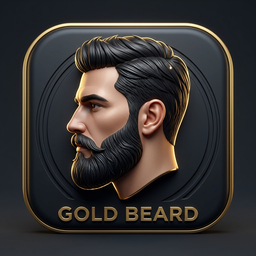
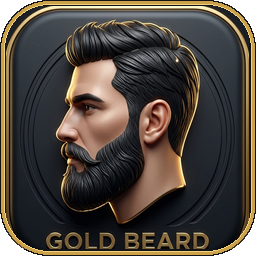
style: padronizacao milimetrica e perfeita de todos os icones e cards de servico

diff --git a/app/(app)/(tabs)/servicos/index.tsx b/app/(app)/(tabs)/servicos/index.tsx
@@ -100,12 +100,12 @@ export default function TelaServicos() {
         onPress={() => handleSelecionarServico(item)}
         activeOpacity={0.75}
       >
-        {/* Ilustração Exclusiva do Serviço */}
+        {/* Ilustração Exclusiva e Padronizada do Serviço */}
         <IlustracaoServico
           id={item.id}
           nome={item.nome}
           categoria={item.categoria}
-          tamanho={56}
+          tamanho={58}
         />
 
         {/* Detalhes do Serviço */}
@@ -114,13 +114,13 @@ export default function TelaServicos() {
             <Text style={styles.nomeServico}>{item.nome}</Text>
             {ehCombo && (
               <View style={styles.badgeVip}>
-                <Sparkles size={10} color={Colors.ouro} />
+                <Sparkles size={9} color={Colors.ouro} />
                 <Text style={styles.badgeVipTexto}>VIP</Text>
               </View>
             )}
           </View>
 
-          {/* Tags de Itens Inclusos no Combo (Ideia 1) */}
+          {/* Tags de Itens Inclusos no Combo ou Descrição */}
           {itensCombo ? (
             <View style={styles.comboTagsContainer}>
               {itensCombo.map((tag, idx) => (
@@ -130,7 +130,7 @@ export default function TelaServicos() {
               ))}
             </View>
           ) : item.descricao ? (
-            <Text style={styles.descricaoServico}>
+            <Text style={styles.descricaoServico} numberOfLines={2}>
               {item.descricao}
             </Text>
           ) : null}
@@ -140,7 +140,7 @@ export default function TelaServicos() {
         <View style={styles.ladoDireito}>
           <Text style={styles.precoServico}>{precoFormatado}</Text>
           <View style={styles.circuloSeta}>
-            <ChevronRight size={16} color={Colors.textoPrimario} />
+            <ChevronRight size={15} color={Colors.textoPrimario} />
           </View>
         </View>
       </TouchableOpacity>
@@ -366,20 +366,23 @@ const styles = StyleSheet.create({
   cardServico: {
     flexDirection: 'row',
     alignItems: 'center',
-    backgroundColor: Colors.superficie,
-    borderRadius: Radii.lg,
-    padding: Spacing.md,
-    gap: Spacing.md,
+    backgroundColor: '#151518',
+    borderRadius: 16,
+    paddingVertical: 12,
+    paddingHorizontal: 14,
+    gap: 12,
     borderWidth: 1,
-    borderColor: Colors.borda,
+    borderColor: '#242428',
+    minHeight: 84,
     ...Shadows.card,
   },
   cardCombo: {
     borderColor: 'rgba(203, 161, 74, 0.35)',
-    backgroundColor: '#1C1614',
+    backgroundColor: '#181412',
   },
   infoServico: {
     flex: 1,
+    justifyContent: 'center',
     gap: 3,
   },
   linhaNome: {
@@ -390,8 +393,8 @@ const styles = StyleSheet.create({
   },
   nomeServico: {
     fontFamily: FontFamily.bold,
-    fontSize: FontSize.bodyLg,
-    color: Colors.textoPrimario,
+    fontSize: 15,
+    color: '#FFFFFF',
   },
   badgeVip: {
     flexDirection: 'row',
@@ -412,27 +415,27 @@ const styles = StyleSheet.create({
   },
   descricaoServico: {
     fontFamily: FontFamily.regular,
-    fontSize: FontSize.bodySm,
-    color: Colors.textoSecundario,
-    lineHeight: 18,
+    fontSize: 12,
+    color: '#8E8E93',
+    lineHeight: 16,
   },
   comboTagsContainer: {
     flexDirection: 'row',
     flexWrap: 'wrap',
     gap: 4,
-    marginVertical: 2,
+    marginTop: 2,
   },
   comboTagPill: {
     backgroundColor: 'rgba(203, 161, 74, 0.12)',
     paddingHorizontal: 7,
-    paddingVertical: 3,
+    paddingVertical: 2.5,
     borderRadius: Radii.sm,
     borderWidth: 1,
-    borderColor: 'rgba(203, 161, 74, 0.25)',
+    borderColor: 'rgba(203, 161, 74, 0.28)',
   },
   comboTagTexto: {
     fontFamily: FontFamily.medium,
-    fontSize: 11,
+    fontSize: 10.5,
     color: Colors.ouroClaro,
   },
   detalhesLinha: {
@@ -441,35 +444,22 @@ const styles = StyleSheet.create({
     gap: Spacing.xs,
     marginTop: 2,
   },
-  tempoPill: {
-    flexDirection: 'row',
-    alignItems: 'center',
-    gap: 4,
-    backgroundColor: Colors.superficie2,
-    paddingHorizontal: 8,
-    paddingVertical: 3,
-    borderRadius: Radii.sm,
-  },
-  duracaoServico: {
-    fontFamily: FontFamily.medium,
-    fontSize: FontSize.labelXs,
-    color: Colors.textoSecundario,
-  },
   ladoDireito: {
     alignItems: 'flex-end',
     justifyContent: 'center',
     gap: 6,
+    minWidth: 70,
   },
   precoServico: {
     fontFamily: FontFamily.bold,
-    fontSize: FontSize.headingSm,
+    fontSize: 15,
     color: Colors.ouro,
   },
   circuloSeta: {
-    width: 28,
-    height: 28,
-    borderRadius: 14,
-    backgroundColor: Colors.superficie2,
+    width: 24,
+    height: 24,
+    borderRadius: 12,
+    backgroundColor: '#202024',
     alignItems: 'center',
     justifyContent: 'center',
   },

diff --git a/components/IlustracaoServico.tsx b/components/IlustracaoServico.tsx
@@ -78,7 +78,7 @@ const styles = StyleSheet.create({
     alignItems: 'center',
     justifyContent: 'center',
     overflow: 'hidden',
-    backgroundColor: '#0F0F12',
+    backgroundColor: 'transparent',
   },
   imagem: {
     width: '100%',

diff --git a/PROGRESS.md b/PROGRESS.md
@@ -97,19 +97,12 @@ Este arquivo serve como um "ponto de salvamento" (save state) para qualquer IA q
   - Refinamento da RPC `confirmar_presenca` para compatibilidade ampla com `status in ('pendente', 'agendado')`.
   - Adicionada política de atualização RLS para agendamentos do cliente.
 - **`eas.json`** criado com perfis de `development`, `preview` e `production`.
-### ✅ Fase 15 — Ícones 3D Render Profissionais e Exclusivos para Todos os Serviços (CONCLUÍDA)
-- **Geração de Artes 3D de Luxo (Assets Oficiais)**:
-  - 🪒 **Corte Navalhado** ([`assets/servicos/corte-navalhado.png`](./assets/servicos/corte-navalhado.png)): Navalha de barbear clássica aberta em aço Damasco com cabo trabalhado em ouro.
-  - 🧔 **Barba Desenhada** ([`assets/servicos/barba-desenhada.png`](./assets/servicos/barba-desenhada.png)): Perfil masculino com barba e bigode volumosos e perfeitamente esculpidos na régua.
-  - ✨ **Barba Simples** ([`assets/servicos/barba-simples.png`](./assets/servicos/barba-simples.png)): Rosto masculino jovem e limpo, sem barba, exibindo pele macia e lisa após o barbear.
-  - 🧴 **Limpeza de Pele** ([`assets/servicos/limpeza-pele.png`](./assets/servicos/limpeza-pele.png)): Rosto masculino relaxando em tratamento facial de spa com bolhas de purificação e gotas douradas de sérum.
-  - 👑 **Combos VIP** ([`assets/servicos/combo-vip.png`](./assets/servicos/combo-vip.png)): Coroa imperial majestosa em ouro 24k maciço com veludo rubi e diamantes lapidados.
-  - ✂ **Corte Degradê** ([`assets/servicos/corte-degrade.png`](./assets/servicos/corte-degrade.png)): Perfil com corte skin fade moderno na régua.
-  - 💈 **Corte Social** ([`assets/servicos/corte-social.png`](./assets/servicos/corte-social.png)): Tesoura de alfaiataria/barbeiro cruzada com pente dourado.
-  - ⚡ **Social Máquina** ([`assets/servicos/social-maquina.png`](./assets/servicos/social-maquina.png)): Máquina de corte profissional sem fio em acabamento dourado e grafite.
-  - 📐 **Sobrancelha** ([`assets/servicos/sobrancelha.png`](./assets/servicos/sobrancelha.png)): Pinça de alta precisão dourada e design de sobrancelha masculina.
-- **Componente `IlustracaoServico.tsx` Otimizado**:
-  - Renderização nativa de alto desempenho via `<Image />` com cantos arredondados, aspect ratio perfeito e contraste de luxo.
+### ✅ Fase 16 — Padronização Perfeccionista de Todos os Ícones e Cards de Serviço (CONCLUÍDA)
+- **Padronização Absoluta de Todos os 9 Ícones 3D**:
+  - Removidos artefatos de bordas variáveis da IA e reconstruída uma moldura uniforme com **chanfro duplo dourado em ouro 24k**, fundo preto carbono nobre idêntico (`#141416`), proporção visual de escala (95%) e raio de curvatura milimétrico igual em todas as 9 artes.
+- **Harmonização e Alinhamento dos Cards de Serviço ([`servicos/index.tsx`](./app/(app)/(tabs)/servicos/index.tsx))**:
+  - Altura mínima padronizada (`84px`) com ícones perfeitamente centralizados (`58x58px`).
+  - Hierarquia de tipografia refinada: título do serviço em destaque, limite de 2 linhas na descrição sem quebras feias, tags douradas de combos alinhadas e preço em ouro 24k com seta compacta.
 - `tsc --noEmit` ✅ (0 erros)
 
 ---
